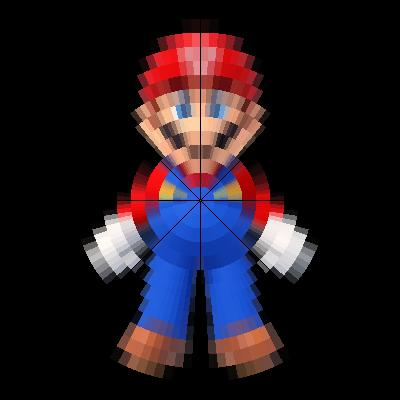
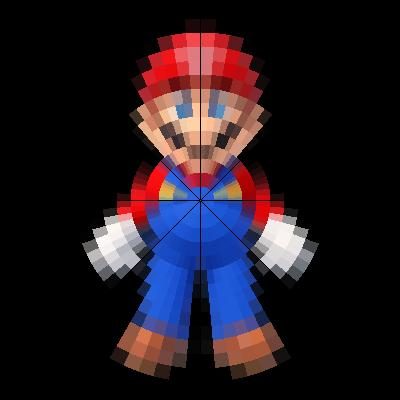
Image display in microseconds

diff --git a/src/GridToArc.java b/src/GridToArc.java
@@ -13,7 +13,7 @@ public class GridToArc{
 	static final int MODSTEPS = 14;
 	static final double MODSTEPDISTANCE = SIZE / (2* MODSTEPS); //Modsteps go out from center
 	
-	static final int ARGSTEPS = 30;
+	static final int ARGSTEPS = 72;
 	static final double ARGSTEP = 360/ARGSTEPS;
 	//static final double 
 	
@@ -25,7 +25,7 @@ public class GridToArc{
 		
 		BufferedImage convert = null;
 		try {
-			convert = ImageIO.read( new File ("../MarioTest.png"));
+			convert = ImageIO.read( new File ("MarioTest.png"));
 		} catch (IOException e) {
 			e.printStackTrace();
 		}
